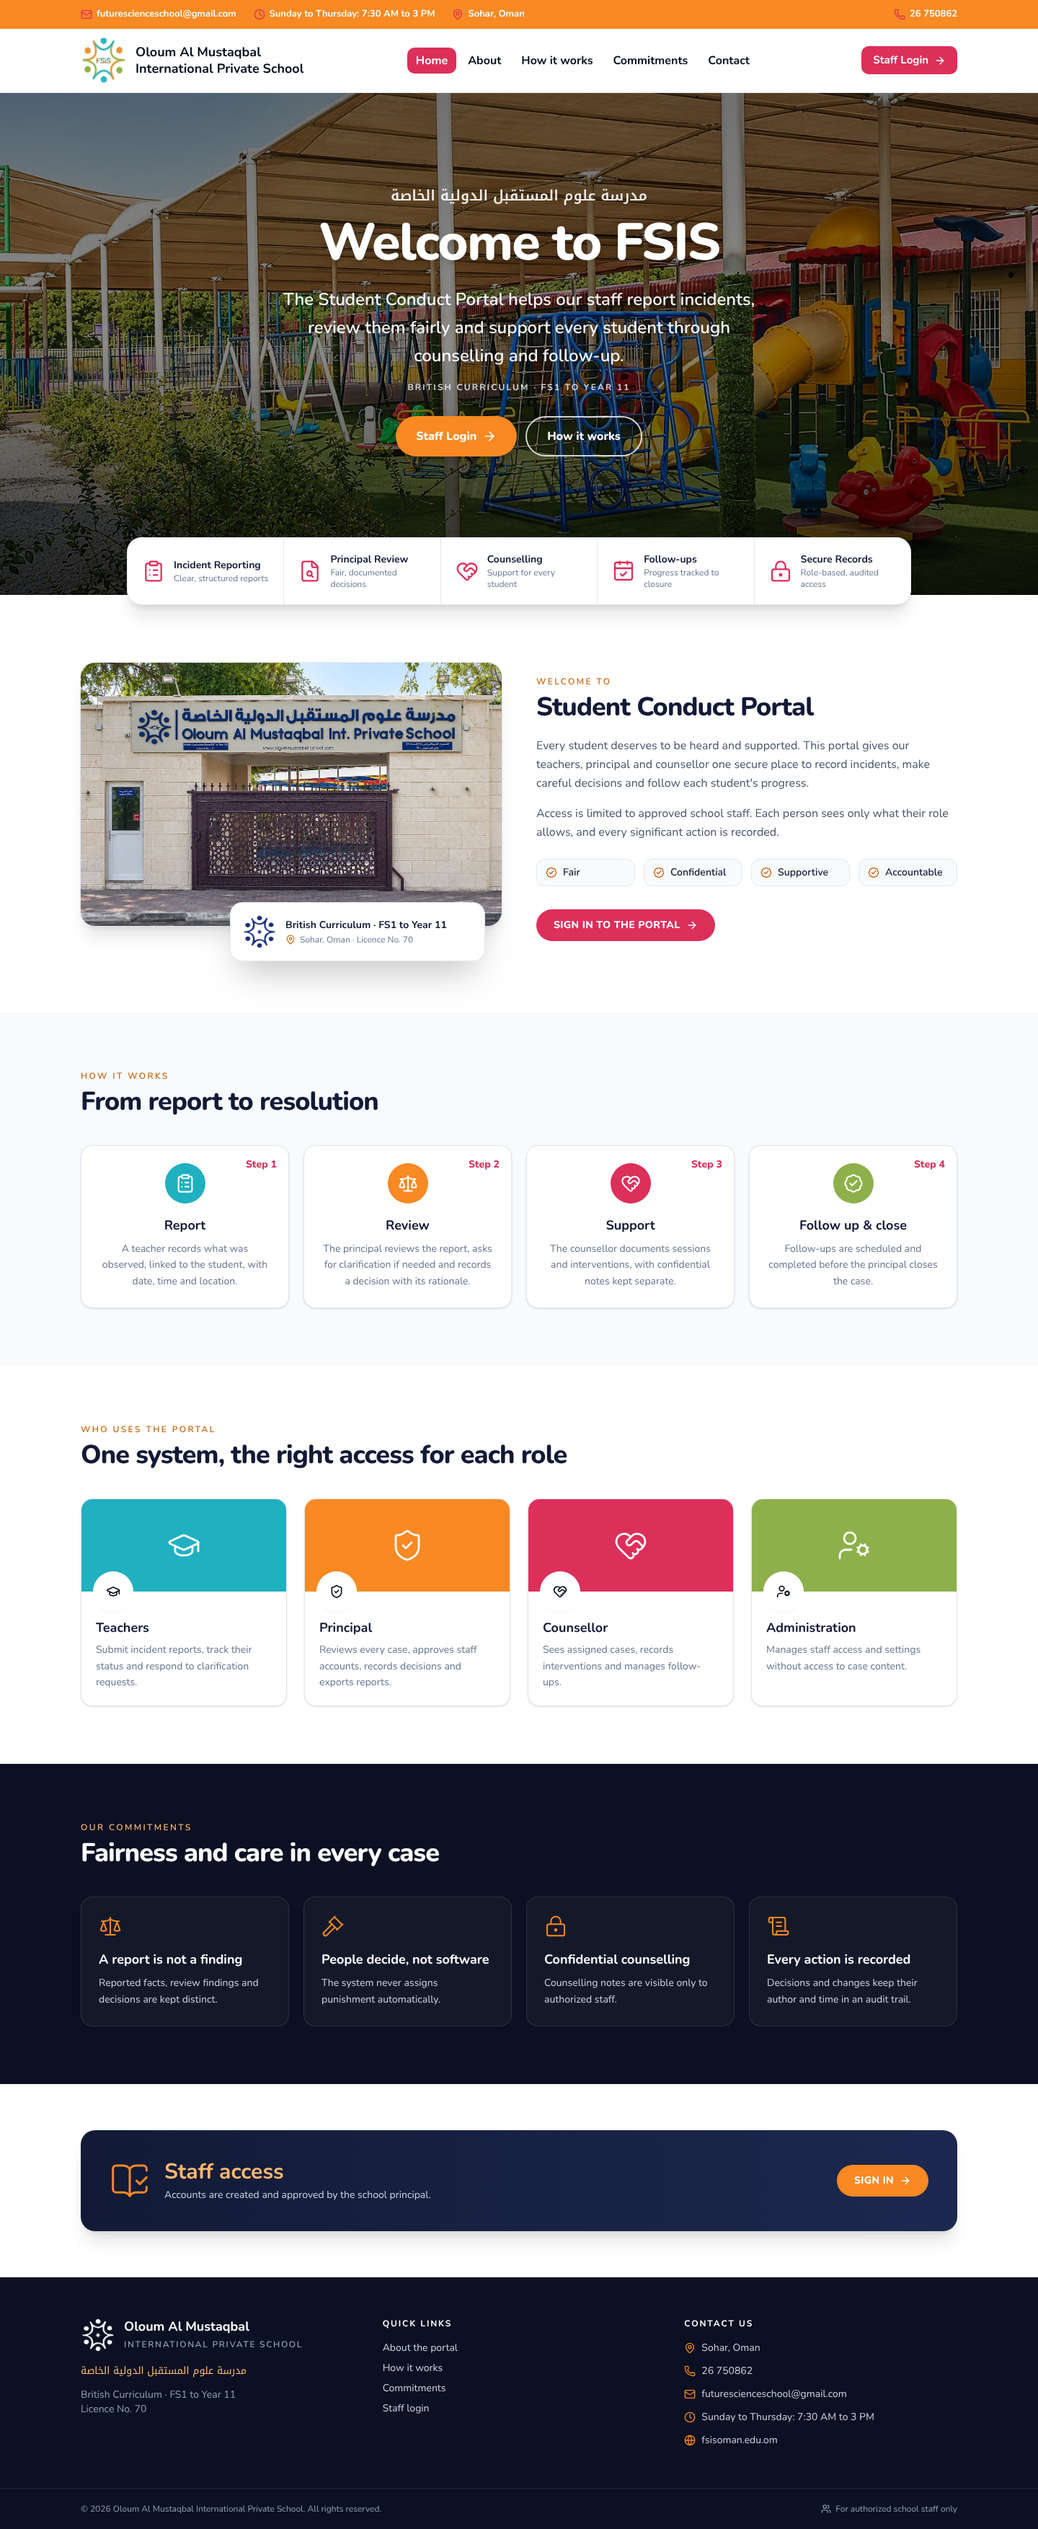
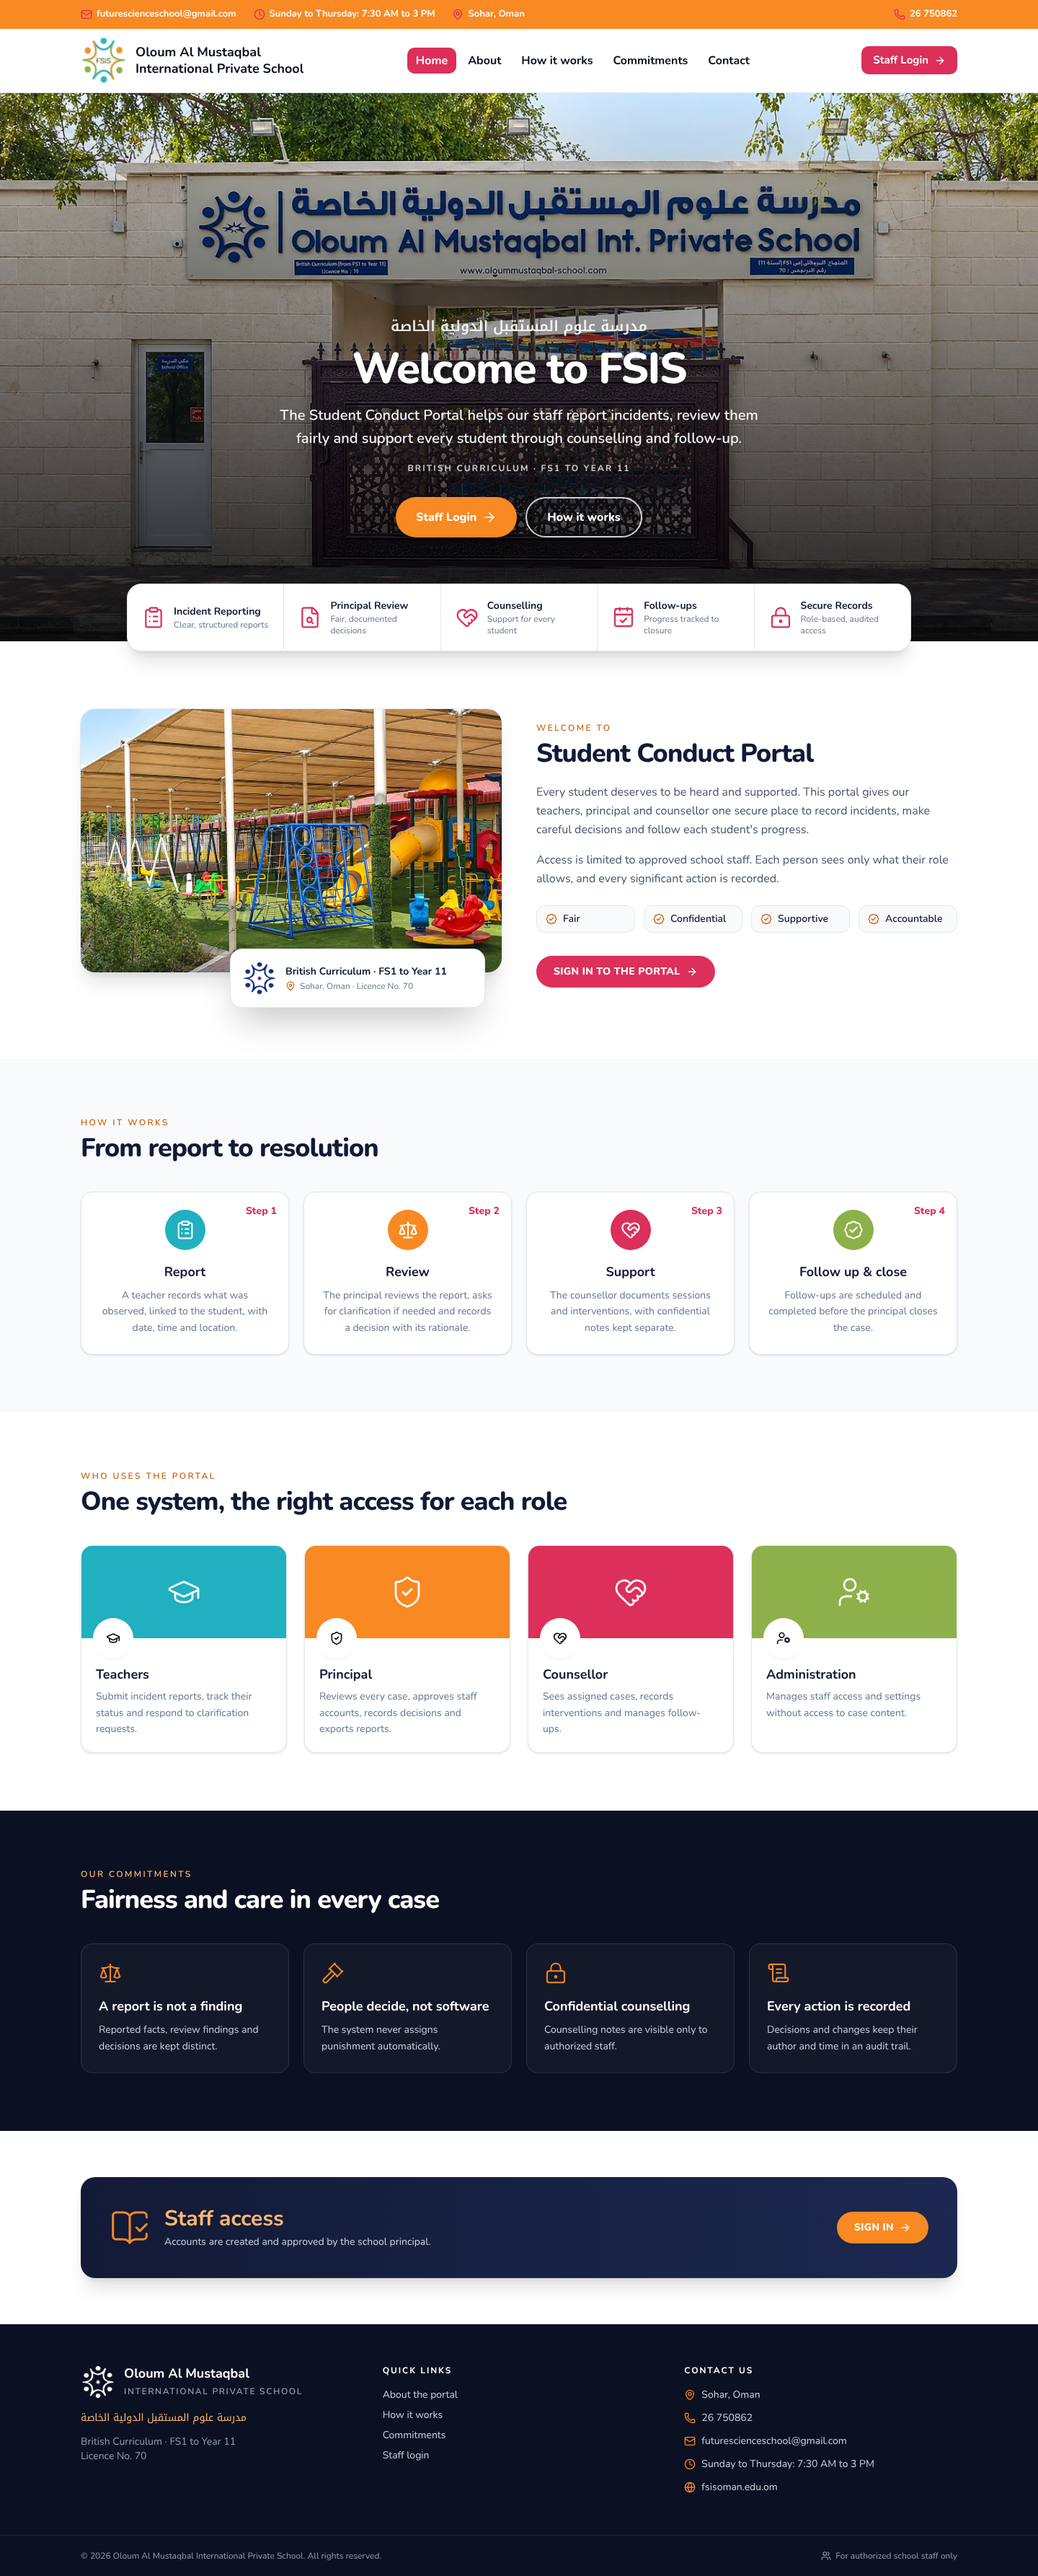
Use the school entrance photo as the homepage hero
The entrance with the school sign is now the main image at the top of the
homepage. On larger screens the text sits over the gate so the sign stays
visible; on phones the full photo is shown first with the text below it.
The playground photo moves to the welcome section.

Claude-Session: https://claude.ai/code/session_019HLAztZPKUb6j8UcEyjLs1

diff --git a/app/page.tsx b/app/page.tsx
@@ -121,15 +121,17 @@ export default function HomePage() {
         {/* Hero */}
         <section className="relative overflow-hidden bg-navy-950 text-white">
           {/* eslint-disable-next-line @next/next/no-img-element */}
-          <img src={school.campusImage} alt="" aria-hidden className="absolute inset-0 h-full w-full object-cover object-center" />
-          <div aria-hidden className="absolute inset-0 bg-black/45" />
-          <div aria-hidden className="absolute inset-0 bg-gradient-to-t from-black/60 via-transparent to-black/20" />
-          <div className="relative mx-auto flex max-w-4xl flex-col items-center px-4 pb-40 pt-24 text-center sm:px-6 lg:pb-48 lg:pt-32">
+          {/* Phones: show the whole entrance sign, then the text below it */}
+          <img src={school.entranceImage} alt={`Main entrance of ${school.nameEn}`} width={1981} height={793} className="block h-auto w-full sm:hidden" />
+          {/* Larger screens: full-bleed photo; keep the sign clear and darken only behind the text */}
+          <img src={school.entranceImage} alt="" aria-hidden className="absolute inset-0 hidden h-full w-full object-cover object-[50%_15%] sm:block" />
+          <div aria-hidden className="absolute inset-0 hidden bg-gradient-to-t from-black/85 via-black/45 to-transparent sm:block" />
+          <div className="relative mx-auto flex max-w-4xl flex-col items-center justify-end px-4 pb-28 pt-8 text-center sm:min-h-[700px] sm:px-6 sm:pb-32 sm:pt-72 lg:min-h-[760px] lg:pb-36">
             <p lang="ar" dir="rtl" className="font-arabic text-lg font-semibold text-white/90 sm:text-xl">{school.nameAr}</p>
-            <h1 className="mt-3 text-4xl font-extrabold leading-[1.1] tracking-tight drop-shadow-lg sm:text-6xl lg:text-7xl" style={{ textWrap: 'balance' }}>
+            <h1 className="mt-3 text-4xl font-extrabold leading-[1.1] tracking-tight drop-shadow-lg sm:text-6xl" style={{ textWrap: 'balance' }}>
               Welcome to {school.acronym}
             </h1>
-            <p className="mt-5 max-w-2xl text-lg font-semibold leading-relaxed text-white/95 drop-shadow sm:text-2xl">
+            <p className="mt-4 max-w-2xl text-lg font-semibold leading-relaxed text-white/95 drop-shadow sm:text-xl">
               The {school.portalName} helps our staff report incidents, review them fairly and support every student through counselling and follow-up.
             </p>
             <p className="mt-4 text-xs font-bold uppercase tracking-[0.18em] text-white/80">{school.curriculum}</p>
@@ -164,7 +166,7 @@ export default function HomePage() {
           <div className="relative pb-10">
             <div className="overflow-hidden rounded-2xl shadow-xl ring-1 ring-slate-200">
               {/* eslint-disable-next-line @next/next/no-img-element */}
-              <img src={school.entranceImage} alt={`Main entrance of ${school.nameEn}`} width={1981} height={793} className="aspect-[16/10] h-full w-full object-cover object-center" />
+              <img src={school.campusImage} alt={`Outdoor play area at ${school.nameEn}`} width={1989} height={791} className="aspect-[16/10] h-full w-full object-cover object-[60%_50%]" />
             </div>
             <div className="absolute -bottom-2 right-4 flex w-[min(88%,22rem)] items-center gap-3 rounded-xl bg-white p-4 shadow-2xl ring-1 ring-slate-200 sm:right-6">
               <Emblem className="h-12 w-12 shrink-0" />
